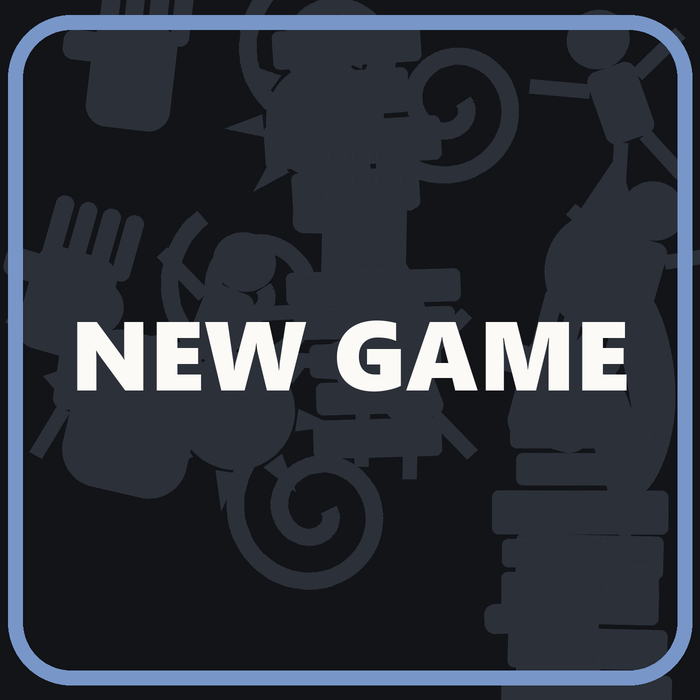
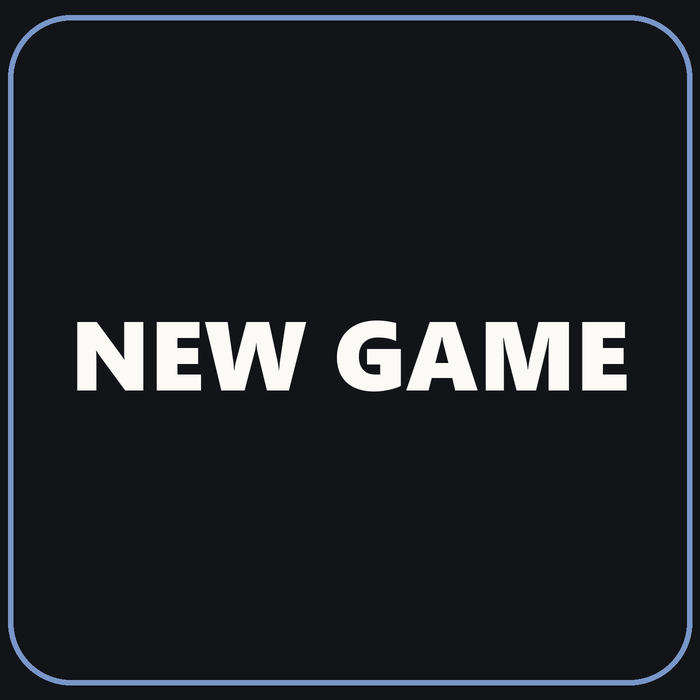
Shrink and simplify Next Round/New Game, move opposite the decks
plaque()'s new minimal=True drops the background glyph texture and
thins the border right down - "just the text" - used for both tiles;
Next Round also drops its chilli icon for the same reason. Scale
80% of the previous size, requested directly.

Pili/trick-token bags moved to sit directly opposite the play/mission
decks (mirrored across the centre), Next Round/New Game moved between
the centre and the bags on that same line - "in front of" them.

diff --git a/art.py b/art.py
@@ -318,7 +318,7 @@ def mission_card(title, body, cards, expert=False):
 
 
 def plaque(cw, ch, title, ground=(20, 18, 18), accent=(232, 196, 92),
-           chilli=False, title_frac=0.30, title_y=0.5):
+           chilli=False, title_frac=0.30, title_y=0.5, minimal=False):
     """Dark tile used for the in-world control objects: dibbers, round button.
 
     `title=None` skips the baked title entirely - for a tile whose meaning is
@@ -327,17 +327,22 @@ def plaque(cw, ch, title, ground=(20, 18, 18), accent=(232, 196, 92),
     gives the two something to visually collide with. `title_y` moves the
     title off-centre (as a fraction of height) for tiles where a button DOES
     still need the centre - see mission_toggle, whose title used to sit right
-    under its own on/off button.
+    under its own on/off button. `minimal` drops the background glyph texture
+    and thins the border right down - "just the text" for a tile meant to
+    read as a plain label (Next Round/New Game) rather than a card-like
+    plaque with its own texture and presence.
     """
     w, h = cw * SS, ch * SS
     seed_text = title or "plaque"
     tile = Image.new("RGBA", (w, h), ground + (255,))
-    tile.alpha_composite(glyphs.scatter((w, h), seed=stable_hash(seed_text) % 7777,
-                                        colour=shade(ground, 2.4),
-                                        count=26, glyph_px=int(min(w, h) * 0.30)))
+    if not minimal:
+        tile.alpha_composite(glyphs.scatter((w, h), seed=stable_hash(seed_text) % 7777,
+                                            colour=shade(ground, 2.4),
+                                            count=26, glyph_px=int(min(w, h) * 0.30)))
     d = ImageDraw.Draw(tile)
+    border_w = max(2, int(min(w, h) * (.008 if minimal else .022)))
     d.rounded_rectangle([int(w * .012), int(h * .022), w - int(w * .012), h - int(h * .022)],
-                        int(min(w, h) * .09), outline=accent, width=max(3, int(min(w, h) * .022)))
+                        int(min(w, h) * .09), outline=accent, width=border_w)
 
     if chilli:
         s = int(h * 0.52)
@@ -607,18 +612,20 @@ def generate(missions, progress=True):
     plaque(600, 600, None).save(p, "PNG", optimize=True)
     out["dibber"] = p
 
+    # Requested plain: no chilli icon, no background texture, thin border -
+    # "just the text", since these two sit close together as one small
+    # shared control rather than a card-like plaque in its own right.
     p = os.path.join(ASSETS, "round_button.png")
     plaque(700, 700, "NEXT ROUND", ground=(28, 14, 12), accent=CHILI_RED,
-           chilli=True, title_frac=0.15).save(p, "PNG", optimize=True)
+           title_frac=0.20, minimal=True).save(p, "PNG", optimize=True)
     out["button"] = p
 
     p = os.path.join(ASSETS, "new_game_button.png")
-    # Same plaque language as Next Round, deliberately duller (no chilli,
-    # a colder accent) - the two sit right next to each other as one shared
-    # control, and shouldn't compete for the eye the way two equally hot
-    # reds would.
+    # Same plaque language as Next Round, deliberately duller (a colder
+    # accent) - the two sit right next to each other as one shared control,
+    # and shouldn't compete for the eye the way two equally hot reds would.
     plaque(700, 700, "NEW GAME", ground=(18, 20, 24), accent=(120, 150, 200),
-           title_frac=0.16).save(p, "PNG", optimize=True)
+           title_frac=0.20, minimal=True).save(p, "PNG", optimize=True)
     out["newgame"] = p
 
     p = os.path.join(ASSETS, "dealer.png")

diff --git a/build_save.py b/build_save.py
@@ -114,11 +114,13 @@ POS_PLAY = (-3.2, 1.6, 3.5)
 POS_DISCARD = (3.2, 1.6, 3.5)      # face up - see gather()'s rotation in global.lua
 POS_MISSION = (-6.5, 1.6, -2.0)
 POS_ASIDE = (-6.5, 1.6, 2.0)
-POS_PILIS = (6.5, 1.6, -2.0)       # Pili token supply bag
-POS_TRICKBAG = (6.5, 1.6, 2.0)     # trick token supply bag
-# Next Round and New Game share one small control cluster, off-centre.
-POS_BUTTON = (-2.2, 1.3, -4.0)
-POS_NEWGAME = (2.2, 1.3, -4.0)
+# Bags directly opposite the decks (mirrored across the centre - same x,
+# negated z), Next Round/New Game between the centre and the bags on that
+# same line - "in front of" them, requested explicitly.
+POS_PILIS = (-3.2, 1.6, -6.5)      # Pili token supply bag
+POS_TRICKBAG = (3.2, 1.6, -6.5)    # trick token supply bag
+POS_BUTTON = (-1.8, 1.3, -3.2)
+POS_NEWGAME = (1.8, 1.3, -3.2)
 POS_MTOGGLE = (-9.0, 1.3, -4.5)
 
 _used_guids = set()
@@ -485,11 +487,12 @@ def build(missions, urls, out_dir, aspects=None):
     # plain half-width, which an off-axis rotation would otherwise do.
     ctrl_rot = face_centre((POS_BUTTON[0] + POS_NEWGAME[0]) / 2,
                            (POS_BUTTON[2] + POS_NEWGAME[2]) / 2)
+    CTRL_SCALE = 1.6 * 0.8    # requested smaller - 80% of the original
     objects.append(custom_tile(urls["button"], POS_BUTTON, ctrl_rot,
-                               "Next Round", "PILI:BUTTON", scale=1.6,
+                               "Next Round", "PILI:BUTTON", scale=CTRL_SCALE,
                                aspect=aspects.get("button", 1.0)))
     objects.append(custom_tile(urls["newgame"], POS_NEWGAME, ctrl_rot,
-                               "New Game", "PILI:NEWGAME", scale=1.6,
+                               "New Game", "PILI:NEWGAME", scale=CTRL_SCALE,
                                aspect=aspects.get("newgame", 1.0)))
     objects.append(custom_tile(urls["mtoggle"], POS_MTOGGLE,
                                face_centre(POS_MTOGGLE[0], POS_MTOGGLE[2]),
